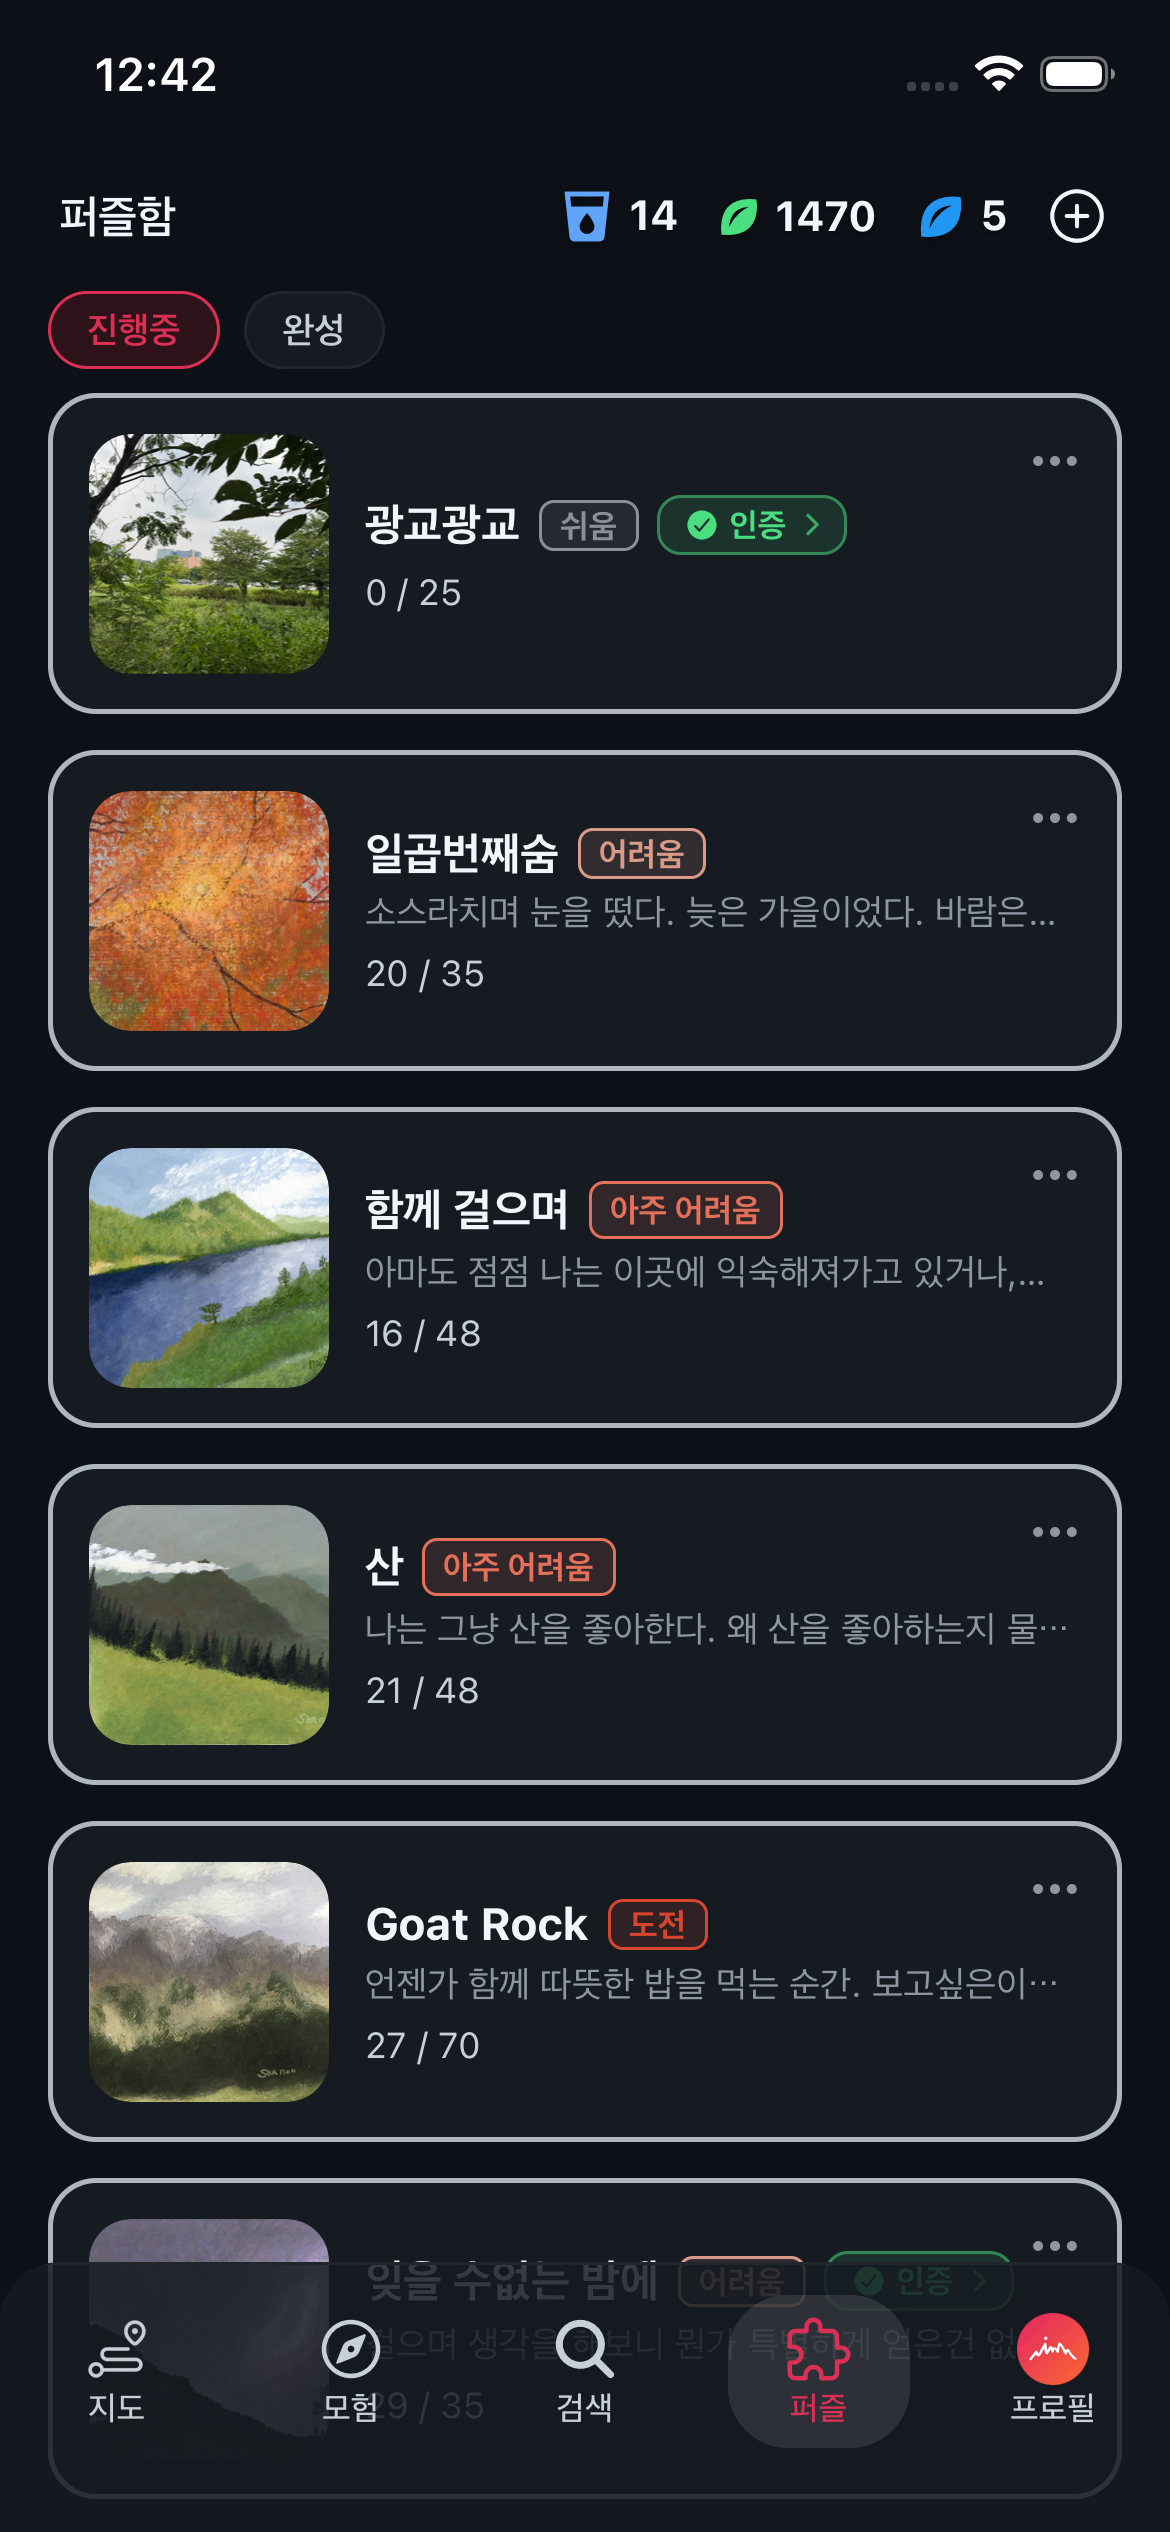
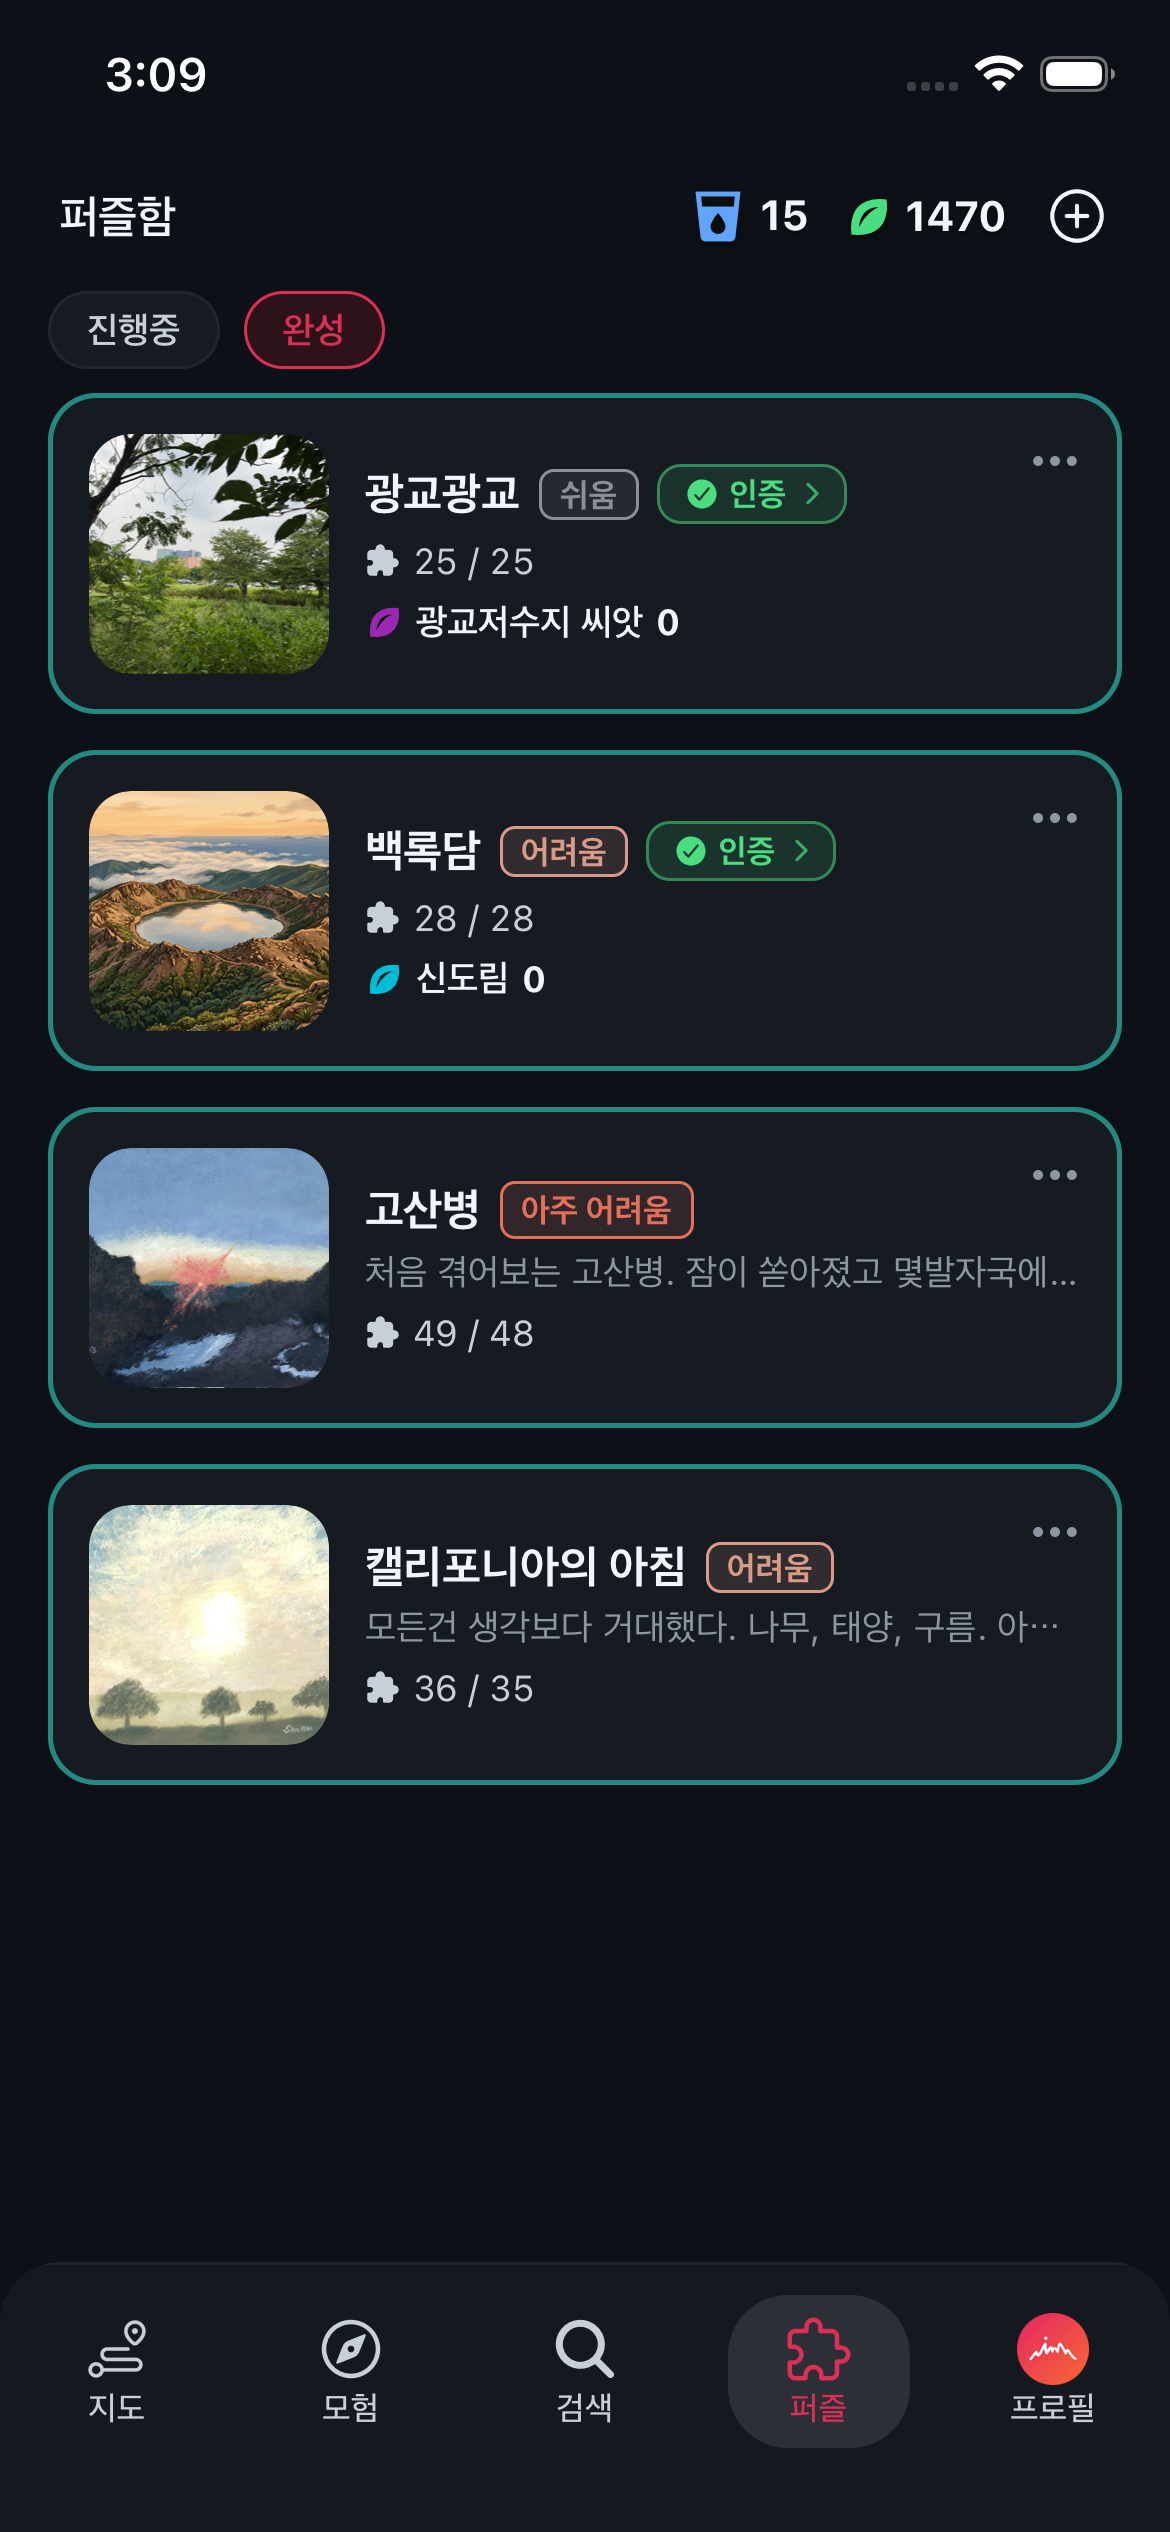
feat(guide): 지도목록·퍼즐함 최신 UI 스크린샷 반영 + Step 4 조각 뽑기 안내
앱의 지도 목록 상단 탭 구성(코스/스탬프/즐겨찾기/수집/내 지도)과 퍼즐함
완성 탭 카드 UI가 최근 업데이트되어 가이드의 대표 이미지 교체. Step 4
설명에 "조각을 뽑아 알맞은 자리에 맞춰 퍼즐 완성" 항목을 추가해 실제
게임 메커니즘(뽑기 + 배치)이 드러나도록 함.

diff --git a/app/guide/page.tsx b/app/guide/page.tsx
@@ -37,7 +37,7 @@ const STEPS: Step[] = [
     desc: "홈 화면에서 관심 있는 지도를 골라주세요. 시리즈별로 정리되어 있고, 위치·난이도·거리 정보를 미리 확인할 수 있어요.",
     icon: MapIcon,
     images: [
-      { src: "/images/guide/step1-list.jpg", caption: "지도 목록" },
+      { src: "/images/guide/step1-list.png", caption: "지도 목록" },
       { src: "/images/guide/step1-detail.jpg", caption: "지도 상세" },
     ],
     bullets: [
@@ -95,6 +95,7 @@ const STEPS: Step[] = [
     bullets: [
       "지도별 고유 퍼즐 이미지",
       "인증 진행률에 따라 조각 공개",
+      "조각을 뽑아 알맞은 자리에 맞춰 퍼즐 완성",
     ],
   },
   {
